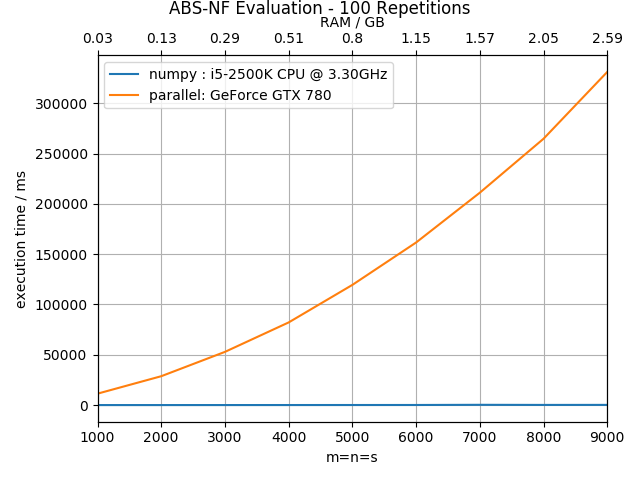
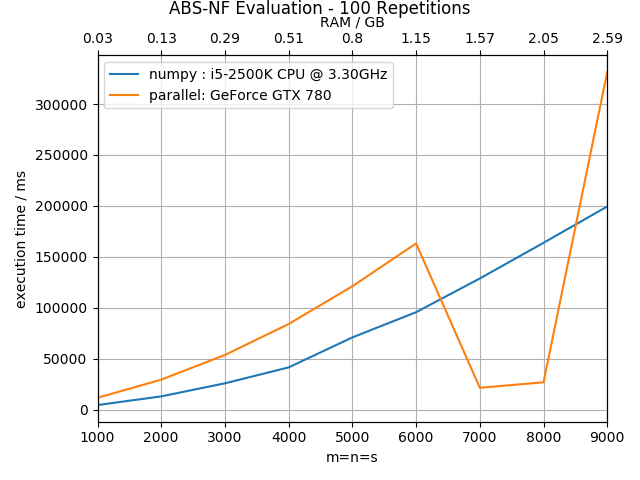
nnn

diff --git a/code/python/eval/eval_plot_mult_repetition.py b/code/python/eval/eval_plot_mult_repetition.py
@@ -7,8 +7,8 @@ def mem_eval(s,m,n, size=8):
 
 # Eval single 
 
-x_s_intel, y_s_intel = zip(*ed.multiple_serial_100)
-x_p_gtx, y_p_gtx = zip(*ed.multiple_gtx_100)
+x_s_intel, y_s_intel = zip(*ed.multiple_serial_1000)
+x_p_gtx, y_p_gtx = zip(*ed.multiple_gtx_1000)
 
 fig = plt.figure()
 ax1 = fig.add_subplot(111)
@@ -16,8 +16,6 @@ ax1.set_xlim(min(x_s_intel), max(x_s_intel))
 ax1.set_xlabel("m=n=s")
 ax1.set_ylabel("execution time / ms")
 ax1.grid(True)
-
-x_s_intel, y_s_intel = zip(*ed.single_serial)
 
 # TODO ADD TESLA
 ax1.plot(x_s_intel, y_s_intel, label="numpy : i5-2500K CPU @ 3.30GHz")
@@ -33,7 +31,7 @@ ax2.set_xbound(ax1.get_xbound())
 ax2.set_xticklabels(x_gb)
 ax1.legend()
 
-fig.suptitle("ABS-NF Evaluation - 100 Repetitions", y=1.0, fontsize=12)
+fig.suptitle("ABS-NF Evaluation - 1000 Repetitions", y=1.0, fontsize=12)
 fig.tight_layout()
 fig.savefig("eval_mult_repetition.png")
 plt.show()

diff --git a/code/python/eval/eval_data.py b/code/python/eval/eval_data.py
@@ -34,9 +34,10 @@ multiple_gtx_1000 = [
             [1000, 11617],
             [2000, 29397],
             [3000, 53653],
-            [4000, 53668],
-            [5000, 12127],
-            [6000, 16309],
+            [4000, 84020],
+            [5000, 121147],
+            [6000, 163110],
+            
             [7000, 21417],
             [8000, 26801],
             [9000, 331517]]
@@ -61,4 +62,4 @@ multiple_serial_1000 =   [
             [6000, 95637.53830001224],
             [7000, 128748.13509899832],
             [8000, 163758.61288698798],
-            [9000, 18762.318305991357]]
+            [9000, 199415.37016900838]]
